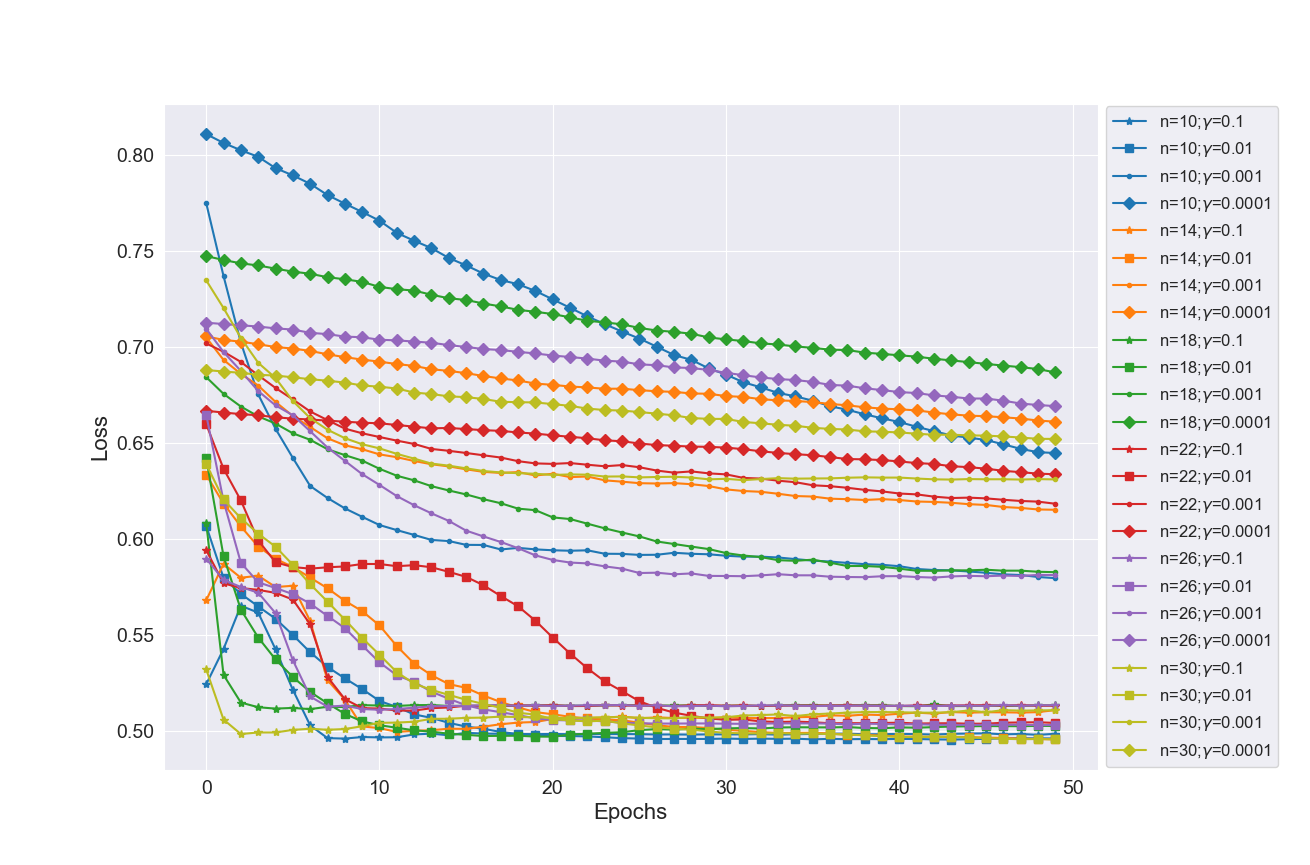
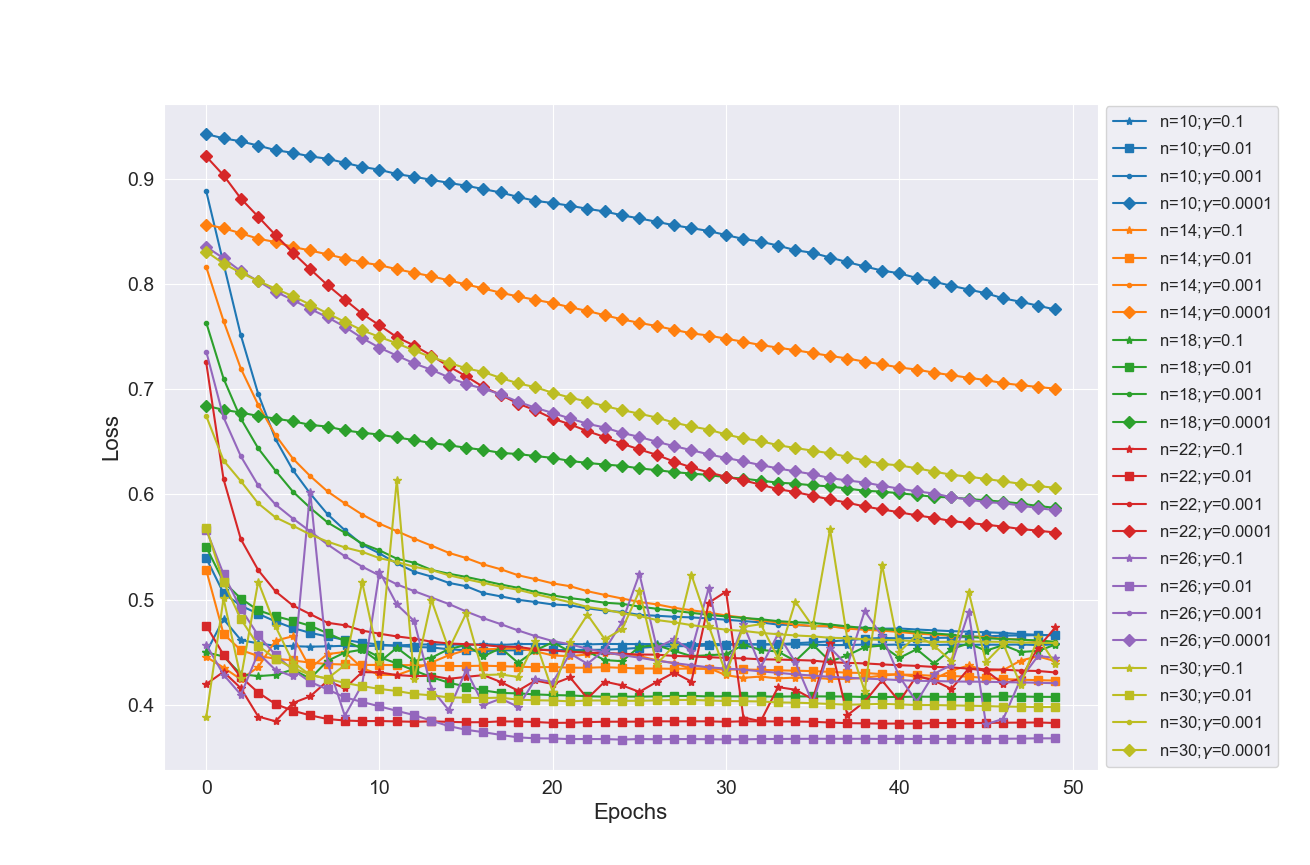
almost there

diff --git a/src/analyzer.py b/src/analyzer.py
@@ -97,5 +97,5 @@ def optimal_run():
 
 
 #plott_distribution()
-#investigate_lr_nparam(0, "test")
+investigate_lr_nparam(0, "test")
 #optimal_run()
